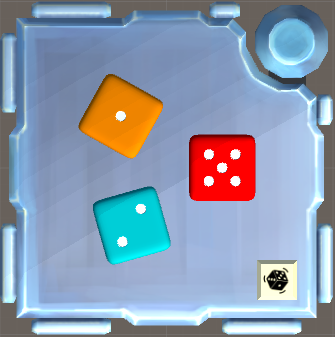
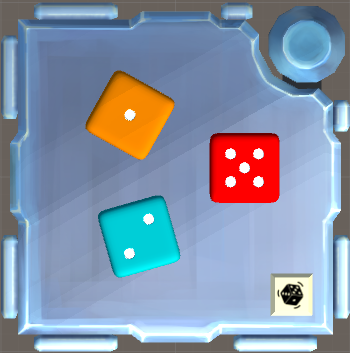
Added game logic

diff --git a/Assets/luckyDiceScript.cs b/Assets/luckyDiceScript.cs
@@ -4,6 +4,7 @@ using System.Collections.Generic;
 using System.Linq;
 using UnityEngine;
 using KModkit;
+using rnd = UnityEngine.Random;
 
 public class luckyDiceScript : MonoBehaviour 
 {
@@ -15,19 +16,310 @@ public class luckyDiceScript : MonoBehaviour
     int moduleId;
     private bool moduleSolved;
 
+	public KMSelectable btn;
+	public KMSelectable[] diceBtns;
+	public GameObject[] dice;
+	public Material[] colors;
+
+	int[] diceVal = new int[3];
+	int[] diceColor = new int[3];
+	int lucky;
+	int lastLuckyRoll;
+
 	void Awake()
 	{
 		moduleId = moduleIdCounter++;
-		//btn.OnInteract += delegate () { PressButton(); return false; };
+		btn.OnInteract += delegate () { Roll(); return false; };
+		diceBtns[0].OnInteract += delegate () { SelectDice(0); return false; };
+		diceBtns[1].OnInteract += delegate () { SelectDice(1); return false; };
+		diceBtns[2].OnInteract += delegate () { SelectDice(2); return false; };
 	}
 
 	void Start () 
 	{
-		
+		SetupDice();
+		Roll();
 	}
 	
-	void Update () 
+	void Roll()
 	{
+		if(moduleSolved)
+			return;
+
+		SetDiceValues();
 		
+		SetDiceRotation(0, diceVal[0]);
+		SetDiceRotation(1, diceVal[1]);
+		SetDiceRotation(2, diceVal[2]);
+	}
+
+	void SetDiceRotation(int diceIndex, int val)
+	{
+		float diceX = 0;
+		float diceY = dice[diceIndex].transform.localEulerAngles.y;
+		float diceZ = 0;
+
+		switch(val)
+		{
+			case 2: diceX = 270f; break;
+			case 3: diceZ = 270f; break;
+			case 4: diceZ = 90f; break;
+			case 5: diceX = 90f; break;
+			case 6: diceX = 180f; break;
+		}
+
+		dice[diceIndex].transform.localEulerAngles = new Vector3(diceX, diceY, diceZ);
+	}
+
+	void SetupDice()
+	{
+		lastLuckyRoll = -1;
+
+		List<int> used = new List<int>();
+
+		for(int i = 0; i < dice.Length; i++)
+		{
+			int color;
+			do {
+				color = rnd.Range(0, colors.Length);
+			} while(used.Contains(color));
+			diceColor[i] = color;
+			used.Add(color);
+			dice[i].transform.Find("cube").GetComponentInChildren<Renderer>().material = colors[diceColor[i]];
+			if(diceColor[i] == 7)
+				dice[i].transform.Find("pips").GetComponentInChildren<Renderer>().material = colors[9];
+			else
+				dice[i].transform.Find("pips").GetComponentInChildren<Renderer>().material = colors[7];
+		}
+
+        Debug.LogFormat("[Lucky Dice #{0}] Dice colors: {1}, {2}, {3}", moduleId, GetColorName(diceColor[0]), GetColorName(diceColor[1]), GetColorName(diceColor[2]));
+	
+		lucky = rnd.Range(0, 3);
+
+        Debug.LogFormat("[Lucky Dice #{0}] Lucky die is die {1} ({2}).", moduleId, lucky + 1, GetColorName(diceColor[lucky]));
+	}
+
+	void SetDiceValues()
+	{
+		switch(diceColor[lucky])
+		{
+			case 0:
+			{
+				diceVal[lucky] = rnd.Range(2, 7);
+				for(int i = 0; i < diceVal.Length; i++)
+				{
+					if(i != lucky)
+						diceVal[i] = rnd.Range(1, diceVal[lucky]);
+				}
+				break;
+			}
+			case 1:
+			{
+				do {
+					diceVal[lucky] = rnd.Range(1, 7);
+				} while (diceVal[lucky] == 3 || diceVal[lucky] == 6);
+				for(int i = 0; i < diceVal.Length; i++)
+				{
+					if(i != lucky)
+						diceVal[i] = rnd.Range(1, 7);
+				}
+				break;
+			}
+			case 2:
+			{
+				if(lastLuckyRoll == -1)
+				{
+					diceVal[lucky] = rnd.Range(1, 7);
+				}
+				else if(lastLuckyRoll % 2 == 0)
+				{
+					diceVal[lucky] = rnd.Range(1, 4);
+					if(diceVal[lucky] == 2)
+						diceVal[lucky] = 5;
+				}
+				else
+				{
+					diceVal[lucky] = rnd.Range(4, 7);
+					if(diceVal[lucky] == 5)
+						diceVal[lucky] = 2;
+				}
+				for(int i = 0; i < diceVal.Length; i++)
+				{
+					if(i != lucky)
+						diceVal[i] = rnd.Range(1, 7);
+				}
+				break;
+			}
+			case 3:
+			{
+				int min;
+				do
+				{
+					min = 7;
+					for(int i = 0; i < diceVal.Length; i++)
+					{
+						if(i != lucky)
+						{
+							diceVal[i] = rnd.Range(1, 7);
+							if(diceVal[i] < min)
+								min = diceVal[i];
+						}
+					} 
+				} while(min == 6);
+
+				diceVal[lucky] = rnd.Range(min + 1, 7);
+				
+				break;
+			}
+			case 4:
+			{
+				if(lastLuckyRoll == -1)
+				{
+					diceVal[lucky] = rnd.Range(1, 7);
+				}
+				else
+				{
+					diceVal[lucky] = 7 - lastLuckyRoll;
+				}
+				for(int i = 0; i < diceVal.Length; i++)
+				{
+					if(i != lucky)
+						diceVal[i] = rnd.Range(1, 7);
+				}
+				break;
+			}
+			case 5:
+			{
+				int min;
+				int max;
+				do
+				{
+					min = 7;
+					max = -1;
+					for(int i = 0; i < diceVal.Length; i++)
+					{
+						if(i != lucky)
+						{
+							diceVal[i] = rnd.Range(1, 7);
+							if(diceVal[i] < min)
+								min = diceVal[i];
+							if(diceVal[i] > max)
+								max = diceVal[i];
+						}
+					} 
+				} while(min == 6 || min == max);
+
+				diceVal[lucky] = rnd.Range(min + 1, max + 1);
+				
+				break;
+			}
+			case 6:
+			{
+				diceVal[lucky] = rnd.Range(4, 7);
+				if(diceVal[lucky] == 5)
+					diceVal[lucky] = 2;
+				for(int i = 0; i < diceVal.Length; i++)
+				{
+					if(i != lucky)
+						diceVal[i] = rnd.Range(1, 7);
+				}
+				break;
+			}
+			case 7:
+			{
+				int min;
+				do
+				{
+					min = 7;
+					for(int i = 0; i < diceVal.Length; i++)
+					{
+						if(i != lucky)
+						{
+							diceVal[i] = rnd.Range(1, 7);
+							if(diceVal[i] < min)
+								min = diceVal[i];
+						}
+					} 
+				} while(min == 1);
+
+				diceVal[lucky] = rnd.Range(1, min);
+				
+				break;
+			}
+			case 8:
+			{
+				int max = -1;
+				for(int i = 0; i < diceVal.Length; i++)
+				{
+					if(i != lucky)
+					{
+						diceVal[i] = rnd.Range(1, 7);
+						if(diceVal[i] > max)
+							max = diceVal[i];
+					}
+				} 
+
+				diceVal[lucky] = rnd.Range(1, 7);
+
+				if(diceVal[lucky] <= max)
+					diceVal[lucky] = 1;
+				
+				break;
+			}
+			case 9:
+			{
+				do {
+					diceVal[lucky] = rnd.Range(1, 7);
+				} while (diceVal[lucky] == 1 || diceVal[lucky] == 4);
+				for(int i = 0; i < diceVal.Length; i++)
+				{
+					if(i != lucky)
+						diceVal[i] = rnd.Range(1, 7);
+				}
+				break;
+			}
+		}
+
+		lastLuckyRoll = diceVal[lucky];
+        Debug.LogFormat("[Lucky Dice #{0}] Dice roll: {1}, {2}, {3}", moduleId, diceVal[0], diceVal[1], diceVal[2]);
+	}
+
+	void SelectDice(int n)
+	{
+		if(moduleSolved)
+			return;
+			
+		if(n == lucky)
+		{
+        	Debug.LogFormat("[Lucky Dice #{0}] Selected the lucky die ({1} - {2}). Module solved.", moduleId, lucky + 1, GetColorName(diceColor[lucky]));
+			moduleSolved = true;
+            GetComponent<KMBombModule>().HandlePass();
+		}
+		else
+		{
+        	Debug.LogFormat("[Lucky Dice #{0}] Strike! Selected wrong die ({1} - {2}).", moduleId, lucky + 1, GetColorName(diceColor[lucky]));
+            GetComponent<KMBombModule>().HandleStrike();
+			SetupDice();
+			Roll();
+		}
+	}
+
+	String GetColorName(int color)
+	{
+		switch(color)
+		{
+			case 0: return "Red";
+			case 1: return "Pink";
+			case 2: return "Purple";
+			case 3: return "Orange";
+			case 4: return "Yellow";
+			case 5: return "Cyan";
+			case 6: return "Blue";
+			case 7: return "White";
+			case 8: return "Grey";
+			case 9: return "Black";
+		}
+
+		return "";
 	}
 }
